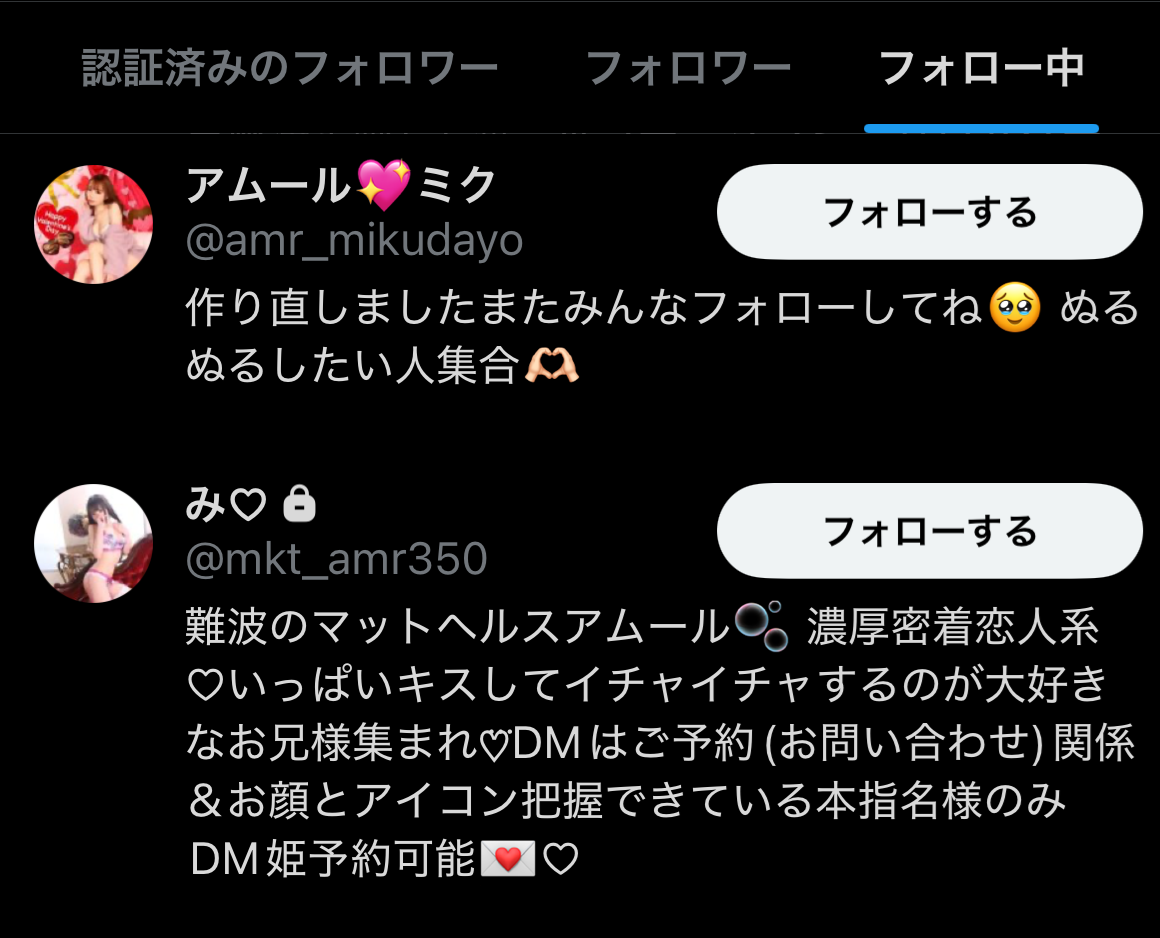
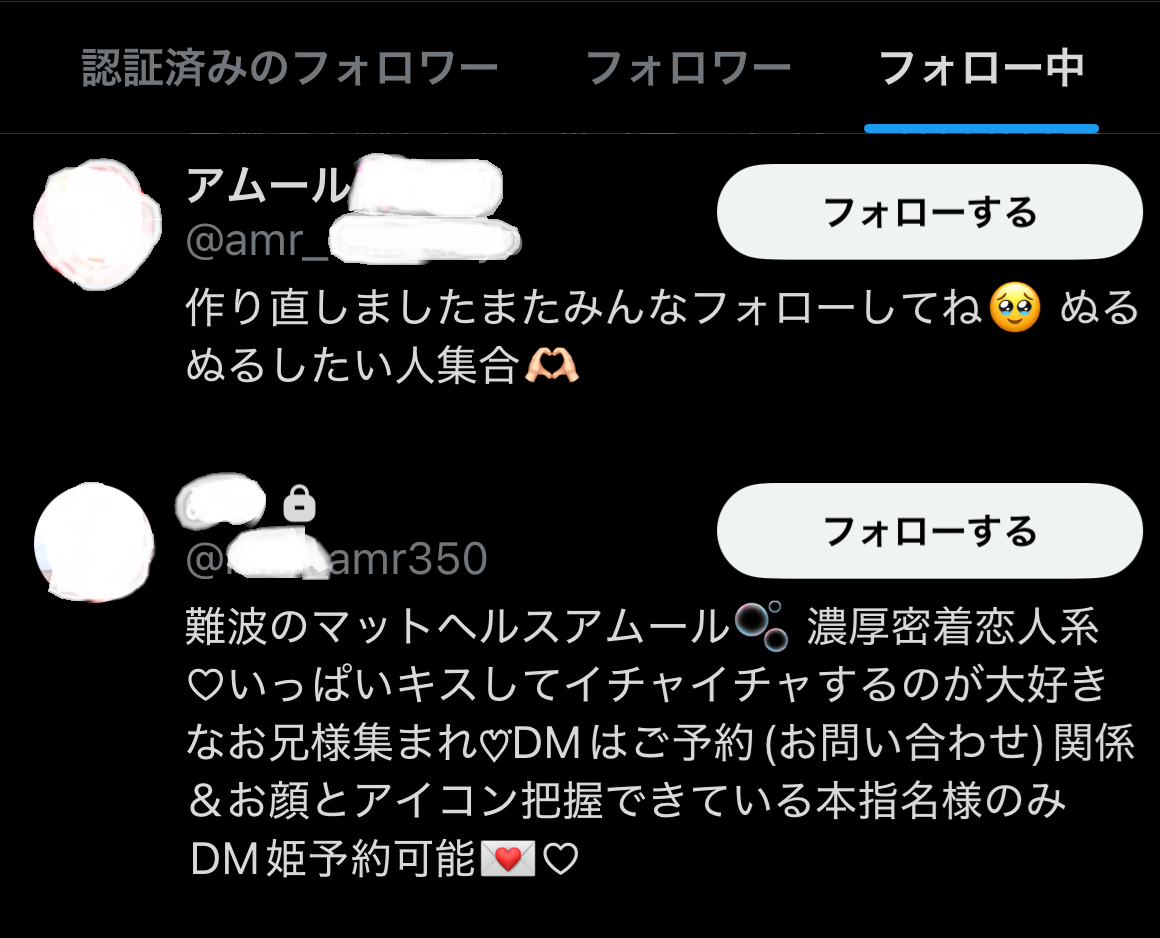
Add files via upload

Changed region(s): [[0.031, 0.4947, 0.3103, 0.6493], [0.2793, 0.1546, 0.4655, 0.3092], [0.031, 0.1546, 0.1552, 0.3092]]

diff --git a/index.html b/index.html
@@ -1080,7 +1080,7 @@
             <tr><td style="width:140px; color:var(--text3);">アカウント名</td><td>御厨楓 / @prX1lmcRzsNLqiW</td></tr>
             <tr><td style="color:var(--text3);">フォロー数</td><td>18（極少数の選択的フォロー）</td></tr>
             <tr><td style="color:var(--text3);">フォロワー数</td><td><span class="hl">1</span>（実質的な情報収集専用垢）</td></tr>
-            <tr><td style="color:var(--text3);">フォロー中に確認</td><td><span class="hl">アムール💖ミク（@amr_mikudayo）・み♡🔒（@mkt_amr350 ／難波のマットヘルスアムール）</span>——アムール在籍嬢2名</td></tr>
+            <tr><td style="color:var(--text3);">フォロー中に確認</td><td><span class="hl">XXX（@amr_XXX）・XXX（@XXX_amr350 ／難波のマットヘルスアムール）</span>——アムール在籍嬢2名</td></tr>
             <tr><td style="color:var(--text3);">発覚経緯</td><td>ヒロちゃんのXをフォローしていることを察知→ヒロちゃんがブロック</td></tr>
           </tbody>
         </table>
